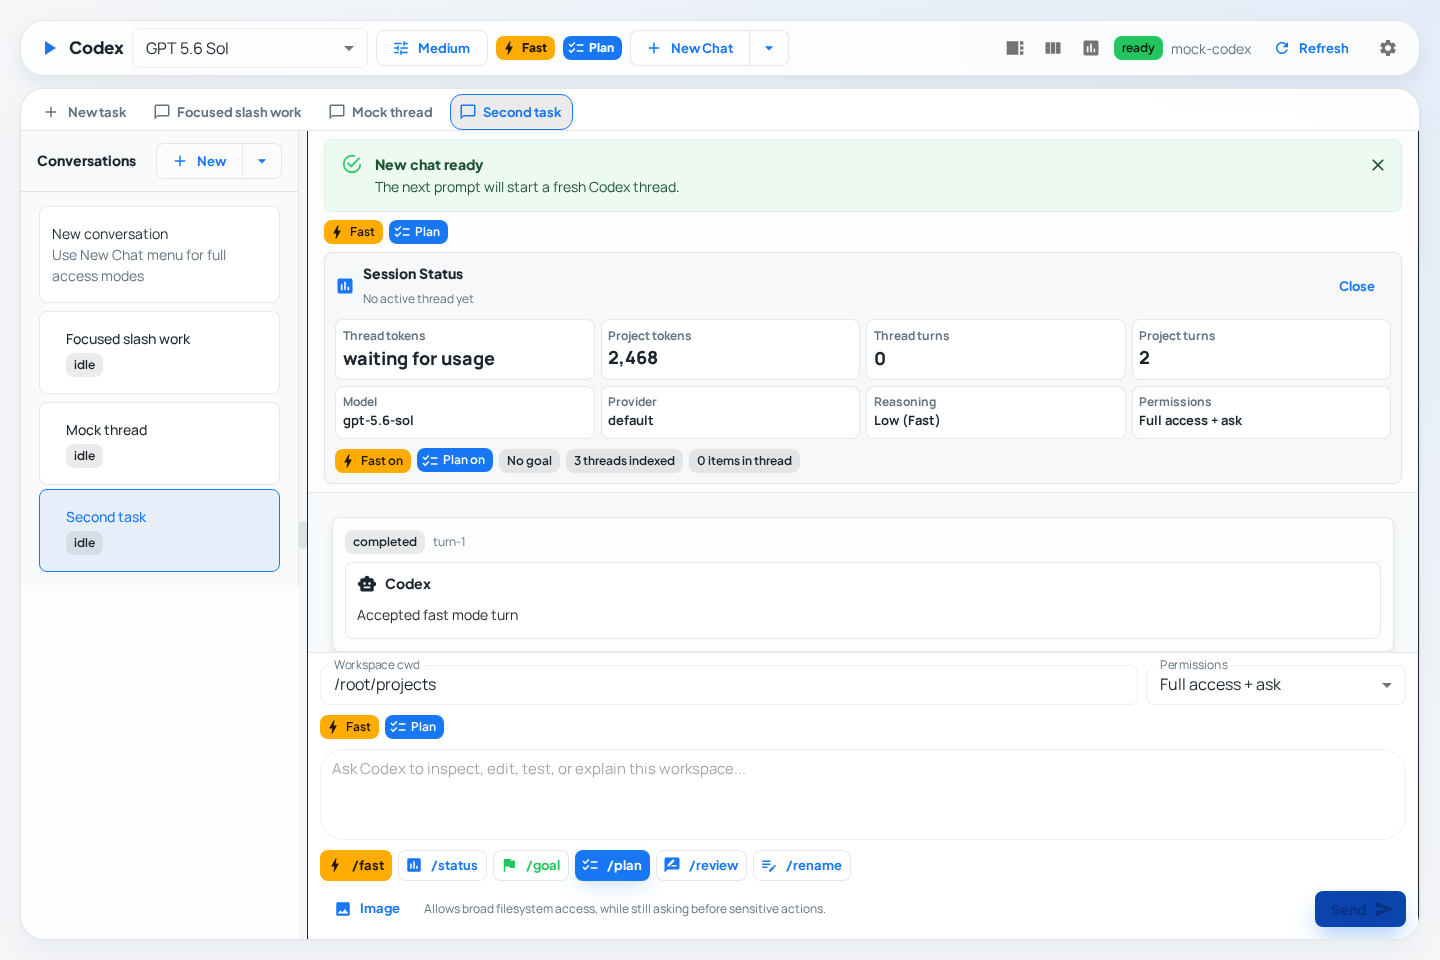
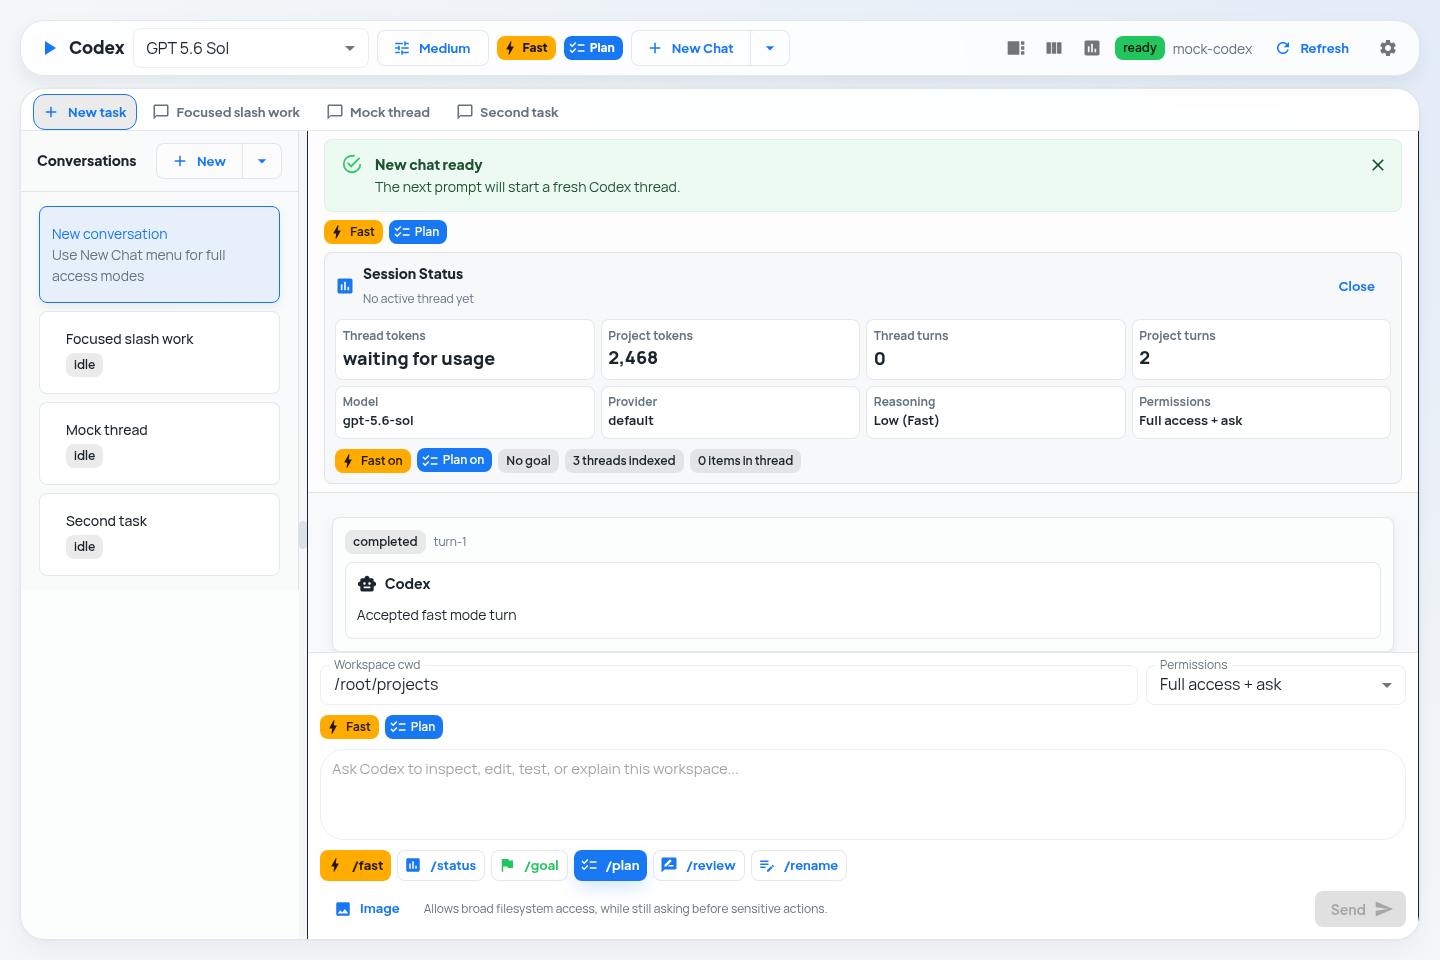
add sqlite support

diff --git a/tests/e2e/workbench.spec.ts b/tests/e2e/workbench.spec.ts
@@ -1492,7 +1492,9 @@ test("routes main slash commands to fast status goal and plan UI", async ({ page
         message.params?.input?.some((entry) => entry.type === "text" && entry.text === "inspect slash router states")
     );
   });
-  outbound = await page.evaluate(() => (window as unknown as { __codexUiOutbound?: Array<{ method?: string; params?: { input?: Array<{ text?: string }> } }> }).__codexUiOutbound ?? []);
+  outbound = await page.evaluate(
+    () => (window as unknown as { __codexUiOutbound?: Array<{ method?: string; params?: { input?: Array<{ text?: string }> } }> }).__codexUiOutbound ?? []
+  );
   expect(outbound.some((message) => message.method === "turn/start" && message.params?.input?.some((entry) => entry.text === "/plan inspect slash router states"))).toBe(false);
 
   await composer.fill("/usage");
@@ -1564,6 +1566,81 @@ test("routes main slash commands to fast status goal and plan UI", async ({ page
     path: "snapshot/slash-command-status-goal-plan.png",
     fullPage: false
   });
+});
+
+test("routes /new danger through the danger confirmation flow", async ({ page }) => {
+  await page.setViewportSize({ width: 1440, height: 960 });
+  await page.goto("/");
+  await expect(page.getByRole("tab", { name: "Mock thread" })).toBeVisible();
+
+  const composer = page.getByPlaceholder("Ask Codex to inspect, edit, test, or explain this workspace...");
+  const send = page.getByRole("button", { name: "Send" });
+
+  await page.evaluate(() => {
+    ((window as unknown as { __codexUiOutbound?: unknown[] }).__codexUiOutbound ?? []).length = 0;
+  });
+  await composer.fill("/new danger");
+  await send.click();
+
+  const dialog = page.getByTestId("danger-new-chat-dialog");
+  await expect(dialog).toBeVisible();
+  await expect(dialog).toContainText("Create Full Auto chat");
+  await expect(page.getByRole("button", { name: "Create Full Auto Chat" })).toBeDisabled();
+  await expect(page.getByRole("tab", { name: "New task" })).toHaveAttribute("aria-selected", "true");
+  await expect(page.getByRole("tab", { name: "Mock thread" })).toHaveAttribute("aria-selected", "false");
+
+  let outbound = await page.evaluate(
+    () => (window as unknown as { __codexUiOutbound?: Array<{ method?: string; params?: { sandbox?: string; approvalPolicy?: string } }> }).__codexUiOutbound ?? []
+  );
+  expect(outbound.some((message) => message.method === "thread/start" || message.method === "turn/start")).toBe(false);
+
+  await page.getByLabel("Confirm Danger Bypass").check();
+  await page.getByRole("button", { name: "Create Full Auto Chat" }).click();
+
+  await expect(dialog).toHaveCount(0);
+  await expect(page.getByTestId("danger-session-badge")).toContainText("Full Auto");
+  await expect(page.getByRole("tab", { name: "New task" })).toHaveAttribute("aria-selected", "true");
+
+  await composer.fill("Start danger slash chat");
+  await send.click();
+
+  await page.waitForFunction(() => {
+    const messages = (
+      window as unknown as {
+        __codexUiOutbound?: Array<{
+          type?: string;
+          method?: string;
+          params?: {
+            sandbox?: string;
+            sandboxPolicy?: { type?: string };
+            approvalPolicy?: string;
+            input?: Array<{ type?: string; text?: string }>;
+          };
+        }>;
+      }
+    ).__codexUiOutbound ?? [];
+    const threadStart = messages.some(
+      (message) =>
+        message.type === "rpc" &&
+        message.method === "thread/start" &&
+        message.params?.sandbox === "danger-full-access" &&
+        message.params?.approvalPolicy === "never"
+    );
+    const turnStart = messages.some(
+      (message) =>
+        message.type === "rpc" &&
+        message.method === "turn/start" &&
+        message.params?.sandboxPolicy?.type === "dangerFullAccess" &&
+        message.params?.approvalPolicy === "never" &&
+        message.params?.input?.some((entry) => entry.type === "text" && entry.text === "Start danger slash chat")
+    );
+    return threadStart && turnStart;
+  });
+
+  outbound = await page.evaluate(
+    () => (window as unknown as { __codexUiOutbound?: Array<{ method?: string; params?: { sandbox?: string; approvalPolicy?: string } }> }).__codexUiOutbound ?? []
+  );
+  expect(outbound.some((message) => message.method === "thread/start")).toBe(true);
 });
 
 test("shows parallel agents rail with switchable transcripts and completion controls", async ({ page }) => {

diff --git a/apps/server/src/providerStore.ts b/apps/server/src/providerStore.ts
@@ -1,9 +1,11 @@
-import { mkdir, readFile, writeFile } from "node:fs/promises";
+import { readFile } from "node:fs/promises";
 import { join } from "node:path";
 import { homedir } from "node:os";
 import { randomUUID } from "node:crypto";
+import type { DatabaseSync } from "node:sqlite";
 import { AsyncEntry } from "@napi-rs/keyring";
 import type { ProviderConfig, UiProfile, UiProfileImportResult } from "@codex-ui/shared";
+import { LocalDatabase } from "./localDatabase.js";
 
 type StoreShape = {
   providers: ProviderConfig[];
@@ -12,9 +14,15 @@ type StoreShape = {
 export class ProviderStore {
   private readonly dir = join(homedir(), ".codex-react-ui");
   private readonly file = join(this.dir, "providers.json");
+  private readonly db: DatabaseSync;
   private memorySecrets = new Map<string, string>();
 
+  public constructor(database = new LocalDatabase()) {
+    this.db = database.connection;
+  }
+
   public async initialize(): Promise<void> {
+    await this.migrateLegacyProviders();
     const store = await this.read();
     let changed = false;
     for (const provider of store.providers) {
@@ -143,19 +151,59 @@ export class ProviderStore {
   }
 
   private async read(): Promise<StoreShape> {
-    try {
-      const raw = await readFile(this.file, "utf8");
-      const parsed = JSON.parse(raw) as StoreShape;
-      return { providers: Array.isArray(parsed.providers) ? parsed.providers : [] };
-    } catch {
-      return { providers: [] };
-    }
+    const rows = this.db
+      .prepare("SELECT payload FROM providers ORDER BY created_at ASC, id ASC")
+      .all() as Array<{ payload: string }>;
+    return {
+      providers: rows.map((row) => parseProvider(row.payload)).filter((provider): provider is ProviderConfig => Boolean(provider))
+    };
   }
 
   private async write(store: StoreShape): Promise<void> {
-    await mkdir(this.dir, { recursive: true });
-    await writeFile(this.file, `${JSON.stringify(store, null, 2)}\n`, { mode: 0o600 });
+    this.db.exec("BEGIN");
+    try {
+      this.db.prepare("DELETE FROM providers").run();
+      const insert = this.db.prepare("INSERT INTO providers (id, payload, created_at, updated_at) VALUES (?, ?, ?, ?)");
+      for (const provider of store.providers) {
+        insert.run(provider.id, JSON.stringify(provider), provider.createdAt ?? Date.now(), provider.updatedAt ?? Date.now());
+      }
+      this.db.exec("COMMIT");
+    } catch (error) {
+      this.db.exec("ROLLBACK");
+      throw error;
+    }
   }
+
+  private async migrateLegacyProviders(): Promise<void> {
+    const existing = this.db.prepare("SELECT COUNT(*) AS count FROM providers").get() as { count: number } | undefined;
+    if ((existing?.count ?? 0) > 0) {
+      return;
+    }
+    try {
+      const raw = await readFile(this.file, "utf8");
+      const parsed = JSON.parse(raw) as StoreShape;
+      const providers = Array.isArray(parsed.providers) ? parsed.providers.filter(isProviderLike) : [];
+      if (providers.length > 0) {
+        await this.write({ providers });
+      }
+    } catch {
+      // Fresh installs have no legacy provider file.
+    }
+  }
+}
+
+function parseProvider(payload: string): ProviderConfig | null {
+  try {
+    const provider = JSON.parse(payload) as ProviderConfig;
+    return isProviderLike(provider) ? provider : null;
+  } catch {
+    return null;
+  }
+}
+
+function isProviderLike(value: unknown): value is ProviderConfig {
+  const record = asRecord(value);
+  return typeof record.id === "string" && typeof record.name === "string" && typeof record.kind === "string";
 }
 
 const KEYRING_SERVICE = "codex-react-ui";

diff --git a/apps/server/src/auditLogStore.ts b/apps/server/src/auditLogStore.ts
@@ -1,12 +1,20 @@
 import { randomUUID } from "node:crypto";
-import { appendFile, mkdir, readFile } from "node:fs/promises";
+import { readFile } from "node:fs/promises";
 import { homedir } from "node:os";
 import { join } from "node:path";
+import type { DatabaseSync } from "node:sqlite";
 import type { DangerousPermissionAuditEvent, JsonValue } from "@codex-ui/shared";
+import { LocalDatabase } from "./localDatabase.js";
 
 export class AuditLogStore {
   private readonly dir = join(homedir(), ".codex-react-ui");
   private readonly file = join(this.dir, "audit-log.jsonl");
+  private readonly db: DatabaseSync;
+
+  public constructor(database = new LocalDatabase()) {
+    this.db = database.connection;
+    void this.migrateLegacyEvents();
+  }
 
   public async recordDangerousPermission(method: string, params: JsonValue | undefined): Promise<DangerousPermissionAuditEvent | null> {
     if (method !== "thread/start" && method !== "turn/start") {
@@ -31,23 +39,44 @@ export class AuditLogStore {
       sandboxPolicyType: sandboxPolicyType(record.sandboxPolicy),
       inputSummary: inputSummary(record.input)
     };
-    await mkdir(this.dir, { recursive: true });
-    await appendFile(this.file, `${JSON.stringify(event)}\n`, { mode: 0o600 });
+    this.insert(event);
     return event;
   }
 
   public async list(limit = 50): Promise<DangerousPermissionAuditEvent[]> {
+    await this.migrateLegacyEvents();
+    const rows = this.db
+      .prepare("SELECT payload FROM audit_events ORDER BY created_at DESC LIMIT ?")
+      .all(limit) as Array<{ payload: string }>;
+    return rows.map((row) => parseAuditLine(row.payload)).filter(isAuditEvent);
+  }
+
+  private insert(event: DangerousPermissionAuditEvent): void {
+    this.db
+      .prepare("INSERT OR REPLACE INTO audit_events (id, created_at, method, severity, payload) VALUES (?, ?, ?, ?, ?)")
+      .run(event.id, event.createdAt, event.method, event.severity, JSON.stringify(event));
+  }
+
+  private async migrateLegacyEvents(): Promise<void> {
+    const existing = this.db.prepare("SELECT COUNT(*) AS count FROM audit_events").get() as { count: number } | undefined;
+    if ((existing?.count ?? 0) > 0) {
+      return;
+    }
     try {
       const raw = await readFile(this.file, "utf8");
-      return raw
-        .split(/\r?\n/)
-        .filter(Boolean)
-        .map(parseAuditLine)
-        .filter(isAuditEvent)
-        .slice(-limit)
-        .reverse();
+      const events = raw.split(/\r?\n/).filter(Boolean).map(parseAuditLine).filter(isAuditEvent);
+      this.db.exec("BEGIN");
+      try {
+        for (const event of events) {
+          this.insert(event);
+        }
+        this.db.exec("COMMIT");
+      } catch (error) {
+        this.db.exec("ROLLBACK");
+        throw error;
+      }
     } catch {
-      return [];
+      // Fresh installs have no legacy audit log.
     }
   }
 }

diff --git a/apps/server/src/localDatabase.ts b/apps/server/src/localDatabase.ts
@@ -1,0 +1,44 @@
+import { mkdirSync } from "node:fs";
+import { chmod } from "node:fs/promises";
+import { homedir } from "node:os";
+import { join } from "node:path";
+import { DatabaseSync } from "node:sqlite";
+
+export class LocalDatabase {
+  public readonly dir = join(homedir(), ".codex-react-ui");
+  public readonly file = join(this.dir, "codex-ui.sqlite3");
+  private readonly db: DatabaseSync;
+
+  public constructor() {
+    mkdirSync(this.dir, { recursive: true, mode: 0o700 });
+    this.db = new DatabaseSync(this.file);
+    this.db.exec("PRAGMA journal_mode = WAL");
+    this.db.exec("PRAGMA foreign_keys = ON");
+    this.db.exec("PRAGMA busy_timeout = 5000");
+    this.migrate();
+    void chmod(this.file, 0o600).catch(() => undefined);
+  }
+
+  public get connection(): DatabaseSync {
+    return this.db;
+  }
+
+  private migrate(): void {
+    this.db.exec(`
+      CREATE TABLE IF NOT EXISTS providers (
+        id TEXT PRIMARY KEY,
+        payload TEXT NOT NULL,
+        created_at INTEGER NOT NULL,
+        updated_at INTEGER NOT NULL
+      );
+
+      CREATE TABLE IF NOT EXISTS audit_events (
+        id TEXT PRIMARY KEY,
+        created_at INTEGER NOT NULL,
+        method TEXT NOT NULL,
+        severity TEXT NOT NULL,
+        payload TEXT NOT NULL
+      );
+    `);
+  }
+}

diff --git a/playwright.config.ts b/playwright.config.ts
@@ -1,4 +1,8 @@
+import { existsSync } from "node:fs";
 import { defineConfig, devices } from "@playwright/test";
+
+const localChromiumPath = "/home/vscode/.local/bin/chromium";
+const chromiumExecutablePath = process.env.PLAYWRIGHT_CHROMIUM_EXECUTABLE_PATH ?? (existsSync(localChromiumPath) ? localChromiumPath : undefined);
 
 export default defineConfig({
   testDir: "./tests/e2e",
@@ -16,11 +20,15 @@ export default defineConfig({
   projects: [
     {
       name: "chromium",
-      use: { ...devices["Desktop Chrome"] }
+      use: {
+        ...devices["Desktop Chrome"],
+        launchOptions: chromiumExecutablePath ? { executablePath: chromiumExecutablePath } : undefined
+      }
     }
   ],
   webServer: {
     command: "pnpm --filter @codex-ui/web dev -- --host 127.0.0.1 --port 5173",
+    env: { CHOKIDAR_USEPOLLING: "true" },
     url: "http://127.0.0.1:5173",
     reuseExistingServer: !process.env.CI,
     timeout: 120_000

diff --git a/apps/server/src/index.ts b/apps/server/src/index.ts
@@ -15,14 +15,16 @@ import {
   type ServerToClientMessage
 } from "@codex-ui/shared";
 import { CodexBridge } from "./codexBridge.js";
+import { LocalDatabase } from "./localDatabase.js";
 import { ProviderStore } from "./providerStore.js";
 import { AuditLogStore } from "./auditLogStore.js";
 
 const PORT = Number(process.env.CODEX_UI_PORT ?? 43110);
 const HOST = "127.0.0.1";
 const sessionToken = process.env.CODEX_UI_TOKEN ?? randomBytes(24).toString("base64url");
-const providerStore = new ProviderStore();
-const auditLogStore = new AuditLogStore();
+const localDatabase = new LocalDatabase();
+const providerStore = new ProviderStore(localDatabase);
+const auditLogStore = new AuditLogStore(localDatabase);
 const bridge = new CodexBridge(() => providerStore.runtimeEnv());
 const clients = new Set<WebSocket>();
 

diff --git a/progress.md b/progress.md
@@ -2,6 +2,14 @@
 
 ## 2026-07-18
 
+- Slash Command parity follow-up:
+  - Added a focused Playwright regression for `/new danger` through the main composer slash router.
+  - The test proves `/new danger` opens the existing Danger Bypass confirmation dialog, does not immediately create a new thread or turn before acknowledgement, and only sends `thread/start` plus `turn/start` with `approvalPolicy: "never"` and `dangerFullAccess` after confirmation.
+  - Verification passed:
+    - `npx pnpm@10.33.0 --filter @codex-ui/web typecheck`
+    - `npx pnpm@10.33.0 exec playwright test tests/e2e/workbench.spec.ts -g "new danger|routes main slash commands" --list`
+  - Browser execution of the focused Playwright tests is currently blocked by the host image missing Chromium system library `libatk-1.0.so.0`; `npx playwright install-deps chromium` cannot complete because sudo requires a password.
+
 - Slash Command parity implementation:
   - Added composer-adjacent shortcut buttons for `/fast`, `/status`, `/goal`, `/plan`, `/review`, and `/rename`; command buttons route through the same parser as typed slash commands.
   - Added a sticky slash command result panel in the chat top status surface for Web-native command outcomes.

diff --git a/README.md b/README.md
@@ -67,7 +67,7 @@ The watcher only stages `README.md`, writes its pid/log files under `.codex-main
 
 ## Provider Switching
 
-Saved provider metadata is stored at `~/.codex-react-ui/providers.json` with file mode `0600`. API keys are kept only in the current Node process memory and exposed to Codex through generated env vars such as `CODEX_UI_PROVIDER_RESPONSES_RELAY_API_KEY`; keys are not written to `config.toml`.
+Saved provider metadata is stored in `~/.codex-react-ui/codex-ui.sqlite3` with SQLite tables and file mode `0600`. API keys are kept only in the current Node process memory and exposed to Codex through generated env vars such as `CODEX_UI_PROVIDER_RESPONSES_RELAY_API_KEY`; keys are not written to `config.toml`.
 
 Activating a provider writes:
 
@@ -121,7 +121,7 @@ Settings-oriented commands stay out of the right runtime workspace. `/plugins`, 
 
 ## Dangerous Permission Audit
 
-Dangerous `thread/start` and `turn/start` calls are appended to `~/.codex-react-ui/audit-log.jsonl` with file mode `0600`. Records include method, timestamp, cwd, thread/model identifiers, permission reasons, and input counts, but not prompt text or API keys. The Config tab shows the most recent local audit records.
+Dangerous `thread/start` and `turn/start` calls are appended to SQLite in `~/.codex-react-ui/codex-ui.sqlite3` with file mode `0600`. Records include method, timestamp, cwd, thread/model identifiers, permission reasons, and input counts, but not prompt text or API keys. The Config tab shows the most recent local audit records.
 
 ## Sidechat Isolation
 